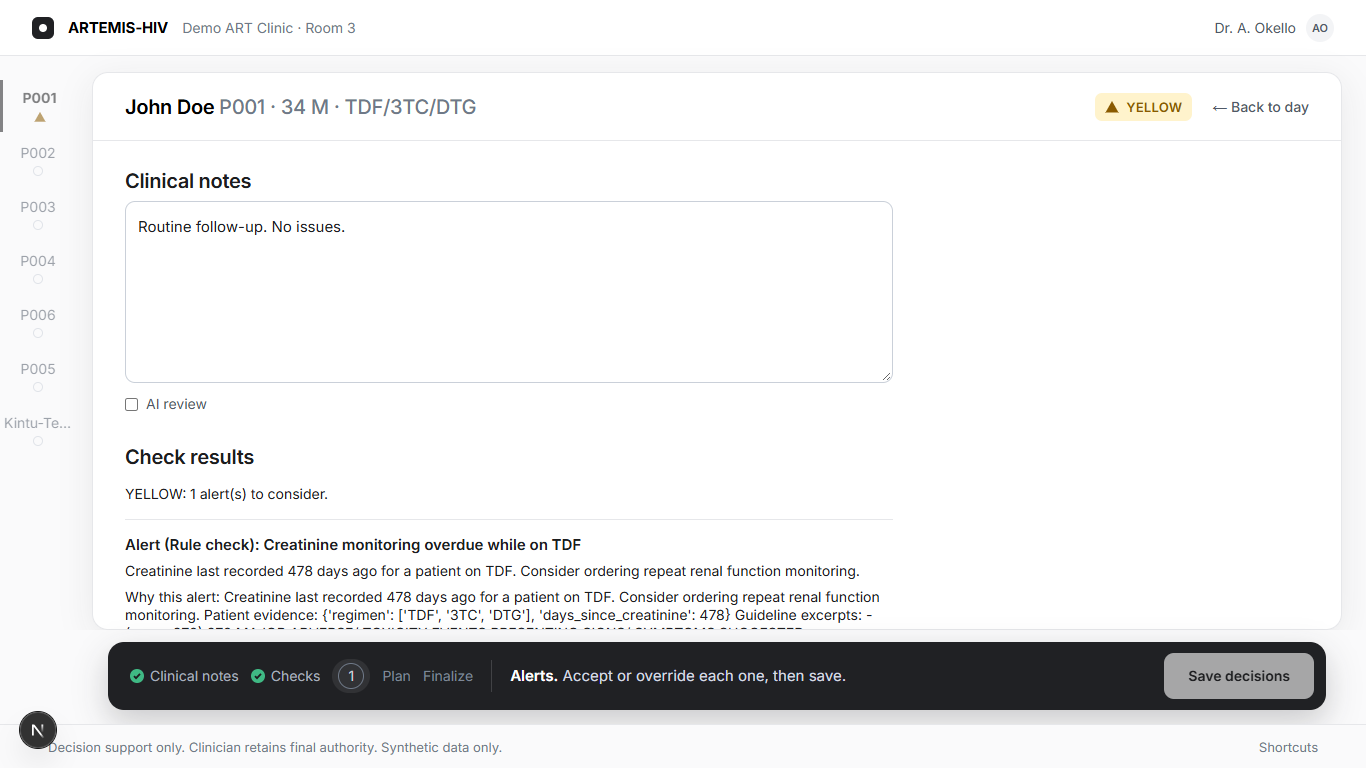
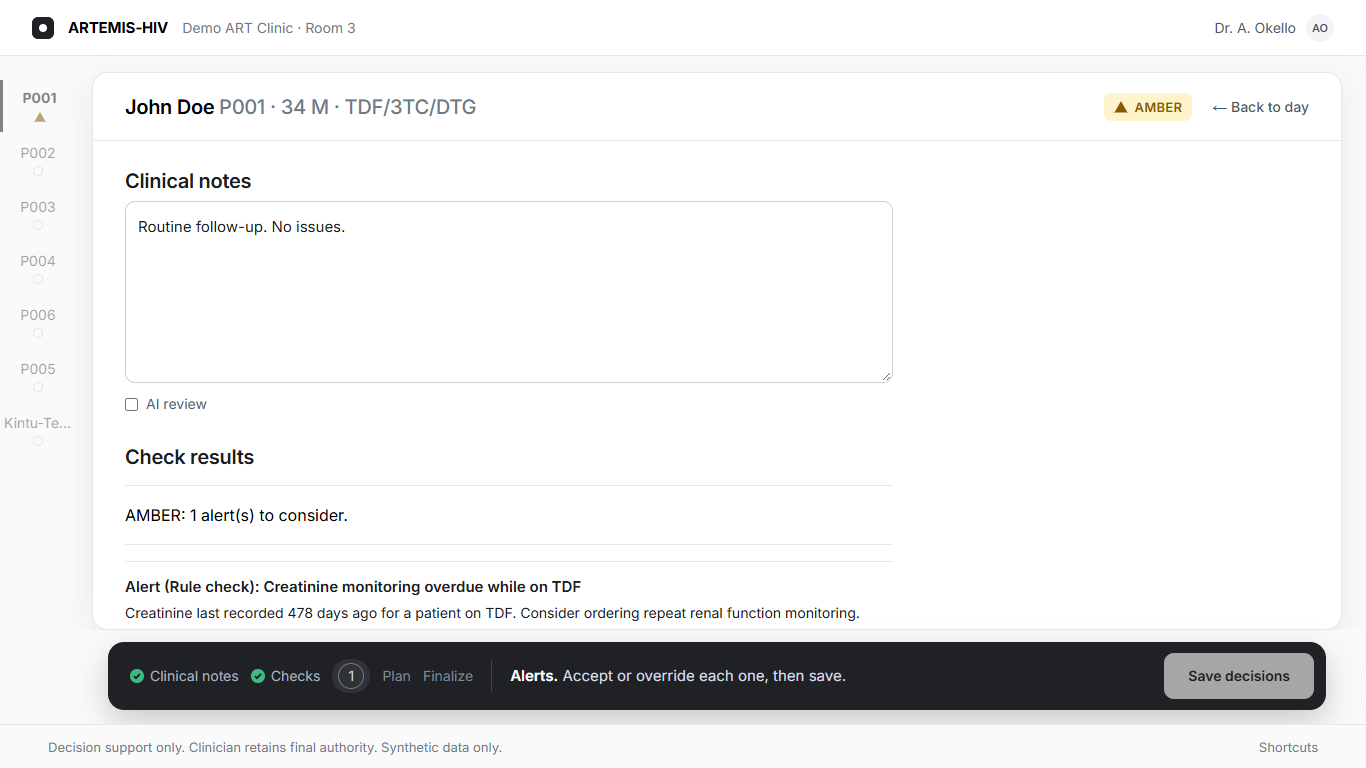
The three AI-review states the design doesn't draw (owner's decision 5)
When the AI review didn't end cleanly, the API's banner for it shows in the
Incomplete screen's (S7a) box, red for search unavailable and amber for
failed, unreadable, cut off or partly read, with the overall result in S7a's
row below and the alerts that were read after it. The tray says what
happened and offers "Run the AI review again" where that can help.

- e2e/screens.spec.ts screenshots each state from a real rules-only reply
  with the outcome swapped in; e2e/ai_states.py computes the status and
  banners with the backend's own functions, so no model is called and the
  wording stays the API's.
- An alert's raw explanation (patient data dicts, passage dumps) is off the
  main view, per the brief.
- No dev badge over the footer.

Waiting on the owner's approval of the screenshots.

Changed region(s): [[0.0922, 0.625, 0.6457, 0.8125], [0.0, 0.9062, 0.0615, 0.9688], [0.7994, 0.125, 0.8609, 0.1562]]

diff --git a/web/src/app/patients/[patientId]/visit-screen.tsx b/web/src/app/patients/[patientId]/visit-screen.tsx
@@ -5,9 +5,10 @@ import { use, useId, useState } from "react";
 
 import { AppFrame, PaneContent, PaneHeader } from "@/components/frame/app-frame";
 import { DayRail } from "@/components/frame/day-rail";
-import { StatusChip, type VisitState } from "@/components/frame/status";
-import { Tray, type TrayProps } from "@/components/frame/tray";
+import { StatusChip, StatusShape, type VisitState } from "@/components/frame/status";
+import { Tray, type TrayButton, type TrayProps } from "@/components/frame/tray";
 import { api, errorText, unwrap, type Card, type DecisionOut, type Decisions, type PatientDetail, type VisitCheck } from "@/lib/api/client";
+import { cn } from "@/lib/cn";
 import { decisionsToSave, type Draft, type Reason } from "@/lib/decisions";
 import { DISCLAIMER } from "@/lib/demo";
 import { useRailEntries } from "@/lib/queries";
@@ -33,17 +34,18 @@ export function VisitScreen({ params }: { params: Promise<{ patientId: string }>
   );
 }
 
-type CheckMutation = UseMutationResult<VisitCheck, Error, void>;
+// Variables: run the AI review this time whatever the box says ("Run the AI review again").
+type CheckMutation = UseMutationResult<VisitCheck, Error, { useAi?: boolean } | void>;
 
 function Visit({ patient }: { patient: PatientDetail }) {
   const [note, setNote] = useState(String(patient.today_encounter.note ?? ""));
   const [useAi, setUseAi] = useState(false);
   const check: CheckMutation = useMutation({
-    mutationFn: async () =>
+    mutationFn: async (vars) =>
       unwrap(
         await api.POST("/api/patients/{patient_id}/visits", {
           params: { path: { patient_id: patient.patient_id } },
-          body: { note, use_ai: useAi, include_plan: false },
+          body: { note, use_ai: vars?.useAi ?? useAi, include_plan: false },
         }),
       ),
   });
@@ -111,6 +113,7 @@ function VisitView({ patient, check, notesForm }: { patient: PatientDetail; chec
             savedIds: savedByAlert,
             canSave: Boolean(toSave) && !save.isPending && Boolean(result?.record_saved),
             onSave: () => save.mutate(),
+            onRetryAi: () => check.mutate({ useAi: true }),
           })}
         />
       }
@@ -173,12 +176,14 @@ function trayFor({
   savedIds,
   canSave,
   onSave,
+  onRetryAi,
 }: {
   pending: boolean;
   result: VisitCheck | undefined;
   savedIds: Map<string, DecisionOut>;
   canSave: boolean;
   onSave: () => void;
+  onRetryAi: () => void;
 }): TrayProps {
   const later = { plan: "todo", finalize: "todo" } as const;
   if (pending) {
@@ -195,15 +200,49 @@ function trayFor({
       primary: { label: "Run checks", form: NOTES_FORM },
     };
   }
-  return {
+  const hasAlerts = result.cards.length > 0;
+  const saveButton: TrayButton = { label: "Save decisions", onClick: onSave, disabled: !canSave };
+  const retry: TrayButton = { label: "Run the AI review again", onClick: onRetryAi };
+  const done = {
     notes: "done",
     checks: "done",
     alerts: result.cards.map((c) => (savedIds.has(c.extension.alert_id) ? "done" : "todo")),
     ...later,
-    lead: result.cards.length ? "Alerts." : "Checks done.",
-    rest: result.cards.length ? "Accept or override each one, then save." : undefined,
-    primary: result.cards.length ? { label: "Save decisions", onClick: onSave, disabled: !canSave } : undefined,
-  };
+  } as const;
+  switch (result.ai_review) {
+    // The design's S7a wording; running the review again can help when the model server failed.
+    case "failed":
+    case "unreadable":
+      return {
+        ...done,
+        lead: "AI review failed.",
+        rest: "Try again, or use rule checks only.",
+        ...(hasAlerts ? { primary: saveButton, secondary: retry } : { primary: retry }),
+      };
+    case "cut_off":
+    case "partly_read":
+      return {
+        ...done,
+        lead: "AI review incomplete.",
+        rest: hasAlerts ? "Review the alerts it read." : "Try again, or use rule checks only.",
+        ...(hasAlerts ? { primary: saveButton, secondary: retry } : { primary: retry }),
+      };
+    // Running again won't help until the search model setting is fixed.
+    case "search_unavailable":
+      return {
+        ...done,
+        lead: "Guideline search unavailable.",
+        rest: "Rule checks only.",
+        primary: hasAlerts ? saveButton : undefined,
+      };
+    default:
+      return {
+        ...done,
+        lead: hasAlerts ? "Alerts." : "Checks done.",
+        rest: hasAlerts ? "Accept or override each one, then save." : undefined,
+        primary: hasAlerts ? saveButton : undefined,
+      };
+  }
 }
 
 function Results({
@@ -224,11 +263,7 @@ function Results({
   return (
     <section aria-label="Check results" className="mt-8 flex max-w-3xl flex-col gap-4">
       <h2 className="text-20 font-semibold tracking-[-0.015em]">Check results</h2>
-      {check.banners.map((b, i) => (
-        <p key={i} role="status" data-level={b.level}>
-          {b.text}
-        </p>
-      ))}
+      <Banners check={check} />
       {!check.record_saved && <p role="alert">This check could not be saved, so its alerts cannot be decided here.</p>}
       {check.cards.map((card) => (
         <AlertCard
@@ -269,7 +304,8 @@ function AlertCard({
       {card.suggestions.map((s) => (
         <p key={s.uuid}>{s.label}</p>
       ))}
-      {ext.explanation && <p>{ext.explanation}</p>}
+      {/* ext.explanation is left off: today it carries raw data and passage dumps, which the
+          brief keeps off the main view (design question 9, for the backend). */}
 
       <h4 className="text-13 font-semibold text-ink-2">{ext.references_heading}</h4>
       <ul className="text-13 text-ink-2">
@@ -330,5 +366,39 @@ function AlertCard({
         </p>
       )}
     </article>
+  );
+}
+
+/**
+ * The API's banners. When the AI review didn't end cleanly, its banner comes first
+ * (screen_text.status_banners) and is shown in the Incomplete screen's (S7a) box, red or amber;
+ * the overall result follows in S7a's result row. Owner's decision 5, 2026-11-26.
+ */
+function Banners({ check }: { check: VisitCheck }) {
+  const aiProblem = !["ok", "not_run"].includes(check.ai_review);
+  const [first, ...rest] = check.banners;
+  const boxed = aiProblem && first && (first.level === "error" || first.level === "warning") ? first : null;
+  const rows = boxed ? rest : check.banners;
+  return (
+    <>
+      {boxed && (
+        <div
+          role="status"
+          data-level={boxed.level}
+          className={cn(
+            "flex max-w-240 items-center gap-4.5 rounded-[14px] border-2 px-6 py-5.5",
+            boxed.level === "error" ? "border-red bg-red-wash" : "border-amber bg-amber-wash",
+          )}
+        >
+          <StatusShape state={boxed.level === "error" ? "RED" : "AMBER"} size={30} />
+          <p className="text-16 font-medium text-ink">{boxed.text}</p>
+        </div>
+      )}
+      {rows.map((b, i) => (
+        <p key={i} role="status" data-level={b.level} className="flex h-15 max-w-240 items-center border-y border-line text-16 text-black">
+          {b.text}
+        </p>
+      ))}
+    </>
   );
 }

diff --git a/web/e2e/screens.spec.ts b/web/e2e/screens.spec.ts
@@ -1,9 +1,12 @@
 // Screenshots of the website at the design's 1366 x 768, for checking it side by side with the
 // Paper FINAL screens (docs/design/exports/phase5/). Runs only when asked:
 //   ARTEMIS_SCREENS=1 npx playwright test screens
+import { execFileSync } from "node:child_process";
 import path from "node:path";
 
-import { expect, test } from "@playwright/test";
+import { expect, test, type Page } from "@playwright/test";
+
+import type { VisitCheck } from "../src/lib/api/client";
 
 const OUT = path.resolve(__dirname, "..", "..", "docs", "design", "exports", "phase5");
 
@@ -24,3 +27,43 @@ test("the shared frame, before and after the checks", async ({ page }) => {
   await expect(results).toBeVisible({ timeout: 5 * 60 * 1000 });
   await page.screenshot({ path: path.join(OUT, "web-S4-results.png") });
 });
+
+// The AI-review states the design doesn't draw (owner's decision 5). Each is a real reply to a
+// rule-checks-only visit check (no model call), with the AI outcome, status and banners the API
+// would send for it, computed by e2e/ai_states.py from the backend's own functions.
+type AiProblem = "search_unavailable" | "failed" | "unreadable" | "cut_off" | "partly_read";
+
+const STATES: { outcome: AiProblem; patient: string; file: string }[] = [
+  { outcome: "search_unavailable", patient: "John Doe", file: "web-S7-search-unavailable.png" },
+  { outcome: "failed", patient: "Jane Roe", file: "web-S7-ai-failed.png" },
+  { outcome: "cut_off", patient: "John Doe", file: "web-S7-ai-cut-off.png" },
+];
+
+async function stubOutcome(page: Page, outcome: AiProblem) {
+  await page.route("**/api/patients/*/visits", async (route) => {
+    const reply = await route.fetch();
+    const body = (await reply.json()) as VisitCheck;
+    const severities = JSON.stringify(body.cards.map((c) => c.extension.severity ?? null));
+    const states = JSON.parse(
+      execFileSync(process.env.PYTHON || "python", [path.join(__dirname, "ai_states.py"), severities], { encoding: "utf8" }),
+    );
+    const cards =
+      outcome === "search_unavailable" // no search, so no guideline references (screen checklist)
+        ? body.cards.map((c) => ({ ...c, extension: { ...c.extension, references: [], passages: [] } }))
+        : body.cards;
+    await route.fulfill({ response: reply, json: { ...body, ...states[outcome], ai_review: outcome, cards } });
+  });
+}
+
+for (const { outcome, patient, file } of STATES) {
+  test(`the AI review ended "${outcome}"`, async ({ page }) => {
+    await stubOutcome(page, outcome);
+    await page.goto("/");
+    await page.getByRole("main").getByRole("link", { name: patient }).click();
+    await page.getByRole("region", { name: "Visit steps" }).getByRole("button", { name: "Run checks" }).click();
+    const results = page.getByRole("region", { name: "Check results" });
+    await expect(results).toBeVisible({ timeout: 5 * 60 * 1000 });
+    await results.scrollIntoViewIfNeeded();
+    await page.screenshot({ path: path.join(OUT, file) });
+  });
+}

diff --git a/web/src/components/frame/status.tsx b/web/src/components/frame/status.tsx
@@ -6,7 +6,7 @@ import { cn } from "@/lib/cn";
 /** Before a check has run, while it runs, or the API's overall status once it has. */
 export type VisitState = "not_checked" | "checking" | VisitCheck["status"];
 
-export function StatusShape({ state, size }: { state: VisitState; size: 12 | 14 }) {
+export function StatusShape({ state, size }: { state: VisitState; size: 12 | 14 | 30 }) {
   const common = { width: size, height: size, viewBox: "0 0 14 14", "aria-hidden": true, className: "shrink-0" } as const;
   switch (state) {
     case "RED":

diff --git a/web/next.config.ts b/web/next.config.ts
@@ -3,6 +3,8 @@ import type { NextConfig } from "next";
 const nextConfig: NextConfig = {
   // The browser tests build into their own folder (playwright.config.ts), so they can run beside `npm run dev`.
   distDir: process.env.ARTEMIS_WEB_DIST_DIR || ".next",
+  // No dev badge over the footer; build errors still show.
+  devIndicators: false,
   cacheComponents: true,
   partialPrefetching: true,
   turbopack: {

diff --git a/web/src/app/globals.css b/web/src/app/globals.css
@@ -59,6 +59,8 @@
   --text-14--line-height: 18px;
   --text-15: 15px;
   --text-15--line-height: 18px;
+  --text-16: 16px;
+  --text-16--line-height: 20px;
   --text-20: 20px;
   --text-20--line-height: 24px;
 

diff --git a/web/e2e/ai_states.py b/web/e2e/ai_states.py
@@ -1,0 +1,39 @@
+"""The status and banners the API would send for each way an AI review can end badly, for the
+screenshots of those states (e2e/screens.spec.ts). Built with the backend's own functions, so the
+wording is the API's; nothing calls a model.
+
+Usage: python e2e/ai_states.py '<JSON list of the alerts' severities, null for none>'
+Prints {outcome: {"status": ..., "banners": [{"level": ..., "text": ...}]}}.
+"""
+
+from __future__ import annotations
+
+import json
+import sys
+from pathlib import Path
+
+sys.path.insert(0, str(Path(__file__).resolve().parents[2]))
+
+from artemis.rules.checks import Alert  # noqa: E402
+from artemis.screen_text import status_banners  # noqa: E402
+from artemis.visit import compute_overall_status  # noqa: E402
+
+OUTCOMES = ("search_unavailable", "failed", "unreadable", "cut_off", "partly_read")
+
+
+def main() -> None:
+    severities = json.loads(sys.argv[1])
+    alerts = [Alert(alert_id=f"a{i}", title="", message="", evidence={"severity": s} if s else {}, query_hint="")
+              for i, s in enumerate(severities)]
+    out = {}
+    for outcome in OUTCOMES:
+        status = compute_overall_status(alerts, outcome)
+        out[outcome] = {
+            "status": status,
+            "banners": [{"level": level, "text": text} for level, text in status_banners(status, outcome, len(alerts))],
+        }
+    print(json.dumps(out))
+
+
+if __name__ == "__main__":
+    main()
